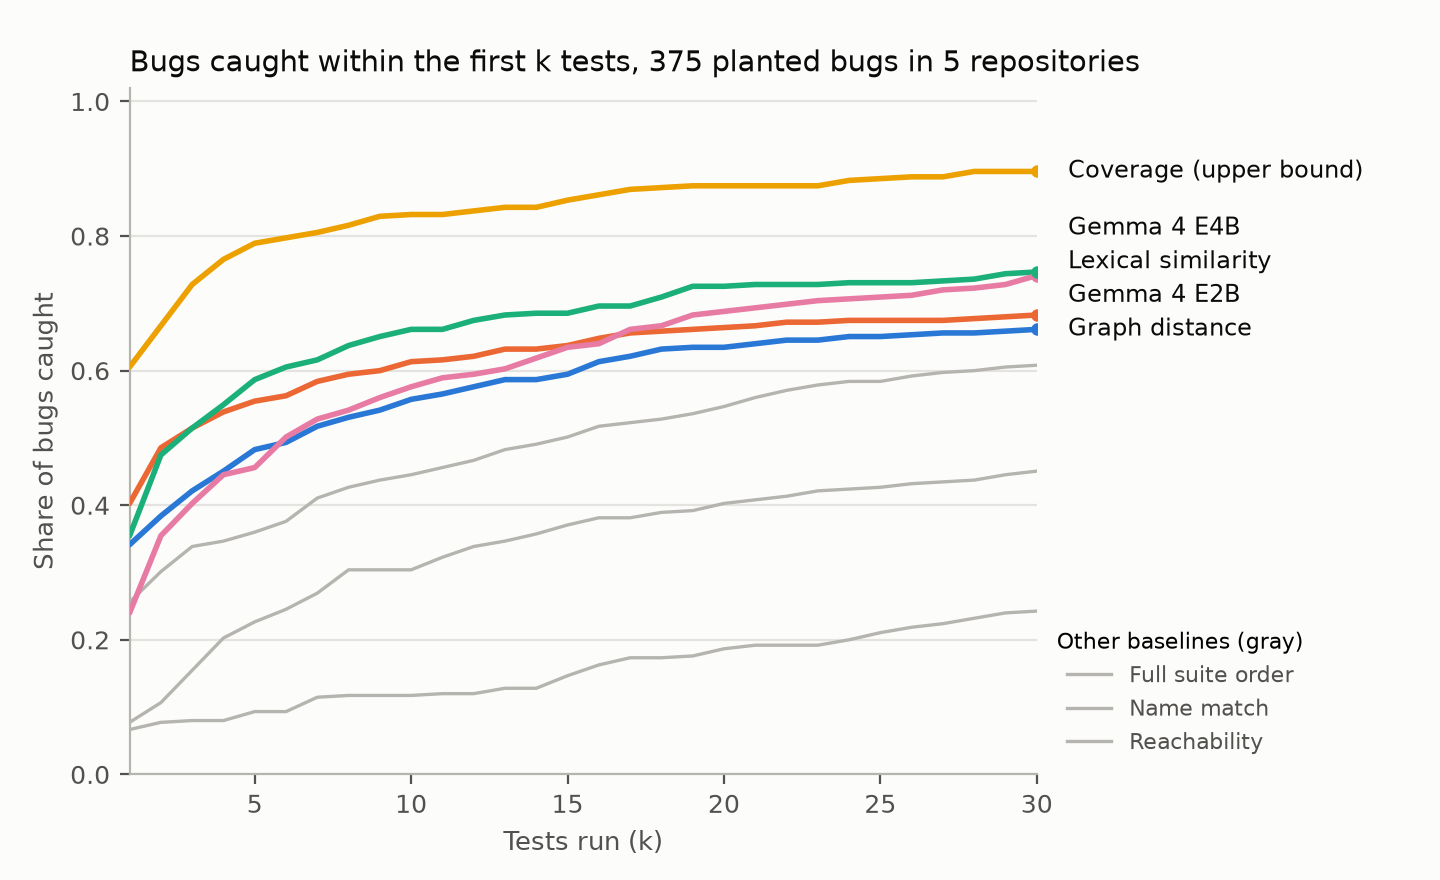
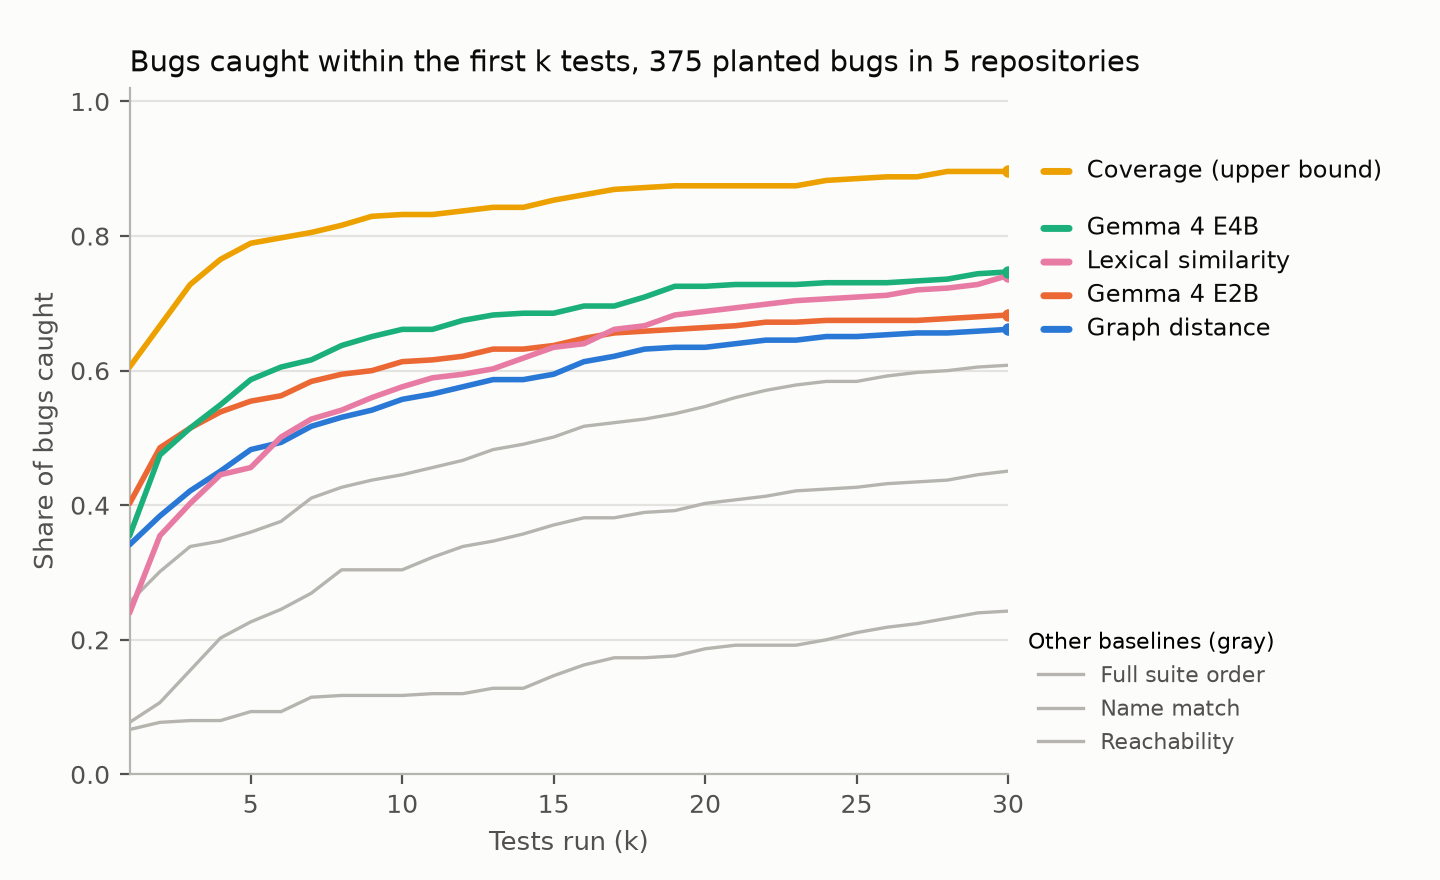
README: state the result and caveats; label swatches in figure 1

diff --git a/rts/figures.py b/rts/figures.py
@@ -62,7 +62,8 @@ def main():
             if abs(y2 - p) < 0.05:
                 y2 = p + 0.05
         placed.append(y2)
-        ax.annotate(label, xy=(30, y), xytext=(31, y2), fontsize=8.5, color=INK, va="center", annotation_clip=False)
+        ax.annotate("", xy=(32.2, y2), xytext=(31.0, y2), arrowprops=dict(arrowstyle="-", color=color, lw=2.5), annotation_clip=False)
+        ax.annotate(label, xy=(30, y), xytext=(32.6, y2), fontsize=8.5, color=INK, va="center", annotation_clip=False)
         ax.plot([30], [y], marker="o", markersize=3.5, color=color, zorder=4)
     gray = [plt.Line2D([], [], color=MUTED, linewidth=1.2, label=OTHER[m]) for m in methods if m in OTHER]
     ax.legend(handles=gray, title="Other baselines (gray)", title_fontsize=8, fontsize=8, frameon=False,
@@ -73,7 +74,7 @@ def main():
     ax.set_ylabel("Share of bugs caught", color=INK2, fontsize=9.5)
     ax.set_title(f"Bugs caught within the first k tests, {len(rows)} planted bugs in {len({r['repo'] for r in rows})} repositories",
                  loc="left", color=INK, fontsize=10.5)
-    fig.subplots_adjust(right=0.72, left=0.09, bottom=0.12, top=0.9)
+    fig.subplots_adjust(right=0.70, left=0.09, bottom=0.12, top=0.9)
     fig.savefig(out / "fig1_recall_at_k.png", facecolor=SURFACE)
 
     # Figure 2: median time to first failure per repository (log scale), model time included

diff --git a/README.md b/README.md
@@ -2,7 +2,9 @@
 
 After a code change, a small Gemma 4 model running on a laptop reads the code graph and orders the tests so the one that catches a bug runs early.
 
-The code graph alone misses tests that reach the changed code through inheritance, decorators or attribute calls. A small local model can read the code and suggest those tests, but it costs seconds per change, so we also measure the suite runtime at which it pays off.
+The code graph alone misses tests that reach the changed code through inheritance, decorators or Python syntax (`in` calls `__contains__`, a `for` loop calls `__iter__`). A small local model can read the code and suggest those tests, but it costs seconds per change, so we also measure the suite runtime at which it pays off.
+
+**Result.** We planted 375 one-operator bugs in five Python repositories and kept only bugs the repository's own tests catch. Ordering tests by distance in the code graph puts a failing test in the first 10 for 56% of bugs. Gemma 4 E4B re-ranking raises that to 66% (+10.4 points, 95% interval +6.7 to +14.1), and E2B to 61%. Plain lexical similarity between the changed code and each test reaches 58%, so E4B beats it while E2B does not clearly. The model takes 2.5 s (E2B) to 14 s (E4B) per change, so on these suites it never saves wall-clock time; it pays off for suites of roughly 15 minutes or more on one core. "Coverage" in the figure is an upper bound: it needs a recorded run of every test, which a cheap method does not have.
 
 ![Bugs caught within the first k tests](paper/figs/fig1_recall_at_k.png)
 
@@ -27,7 +29,7 @@ All Gemma 4 prompts and answers are cached in `data/rr/cache`, keyed by the SHA-
 - `rts/select_tests.py` ranks tests with the six non-model methods; `rts/select_provided.py` adds rankings from the competition's provided code graph and embeddings.
 - `rts/rerank.py` asks Gemma 4 (via Ollama, temperature 0) to re-rank the tests and caches every answer.
 - `rts/analyze.py` and `rts/figures.py` build the tables and figures.
-- `data/` holds the planted bugs, kill matrices, per-test runtimes, every method's rankings and the cached model answers.
+- `data/` holds the planted bugs, the list of tests that fail for each bug (the kill matrix), per-test runtimes, every method's rankings and the cached model answers.
 
 ## Re-running the models
 
